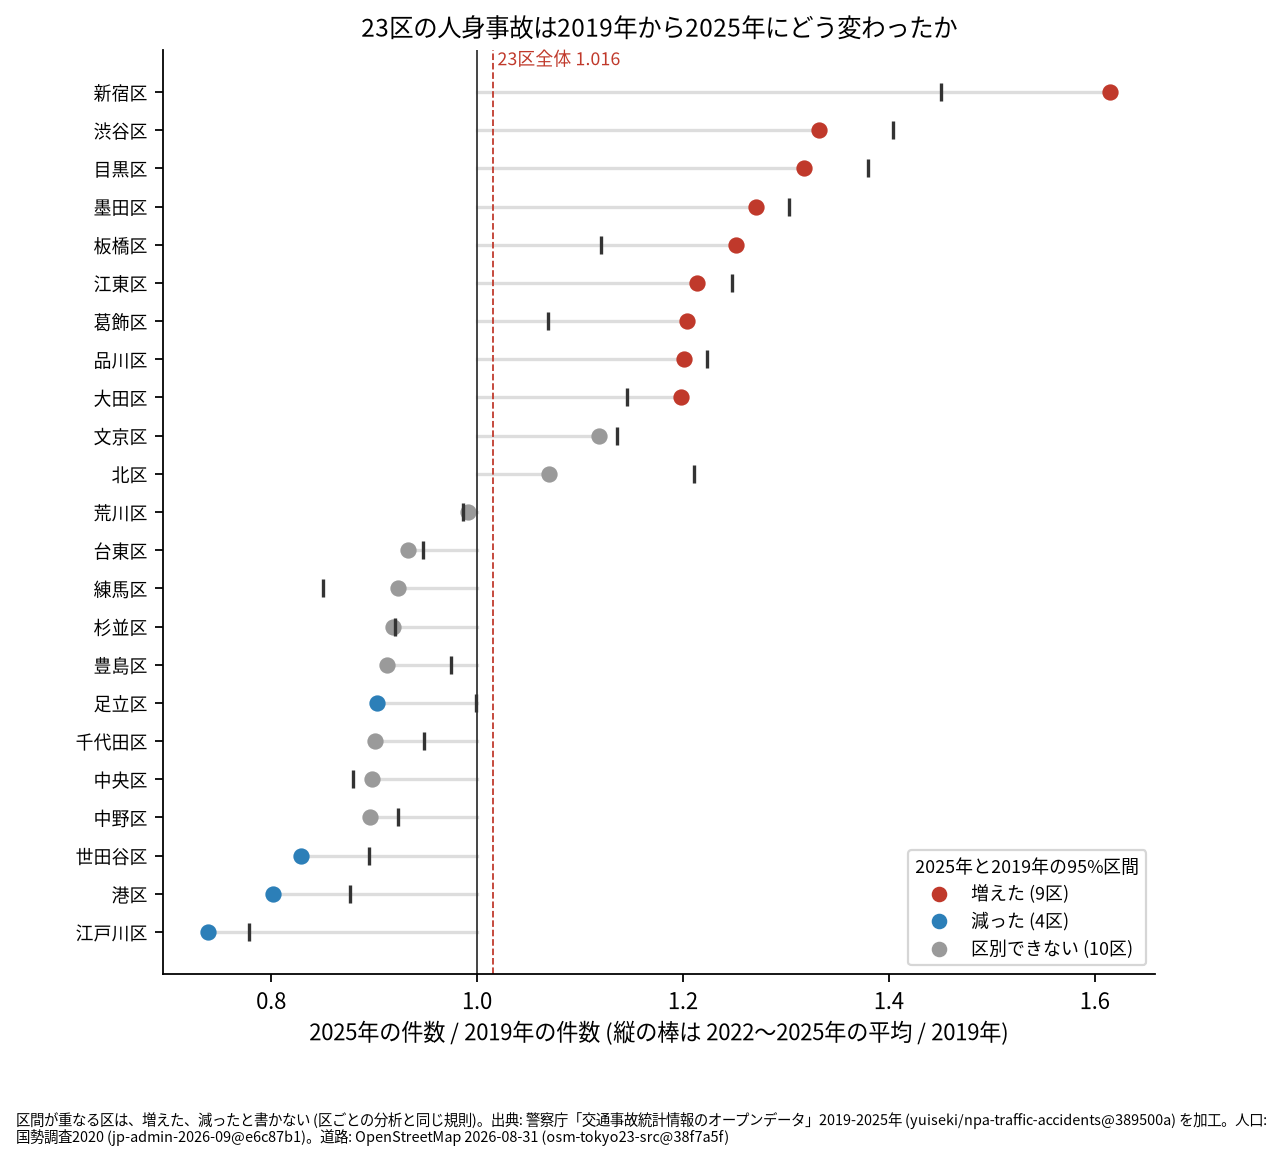
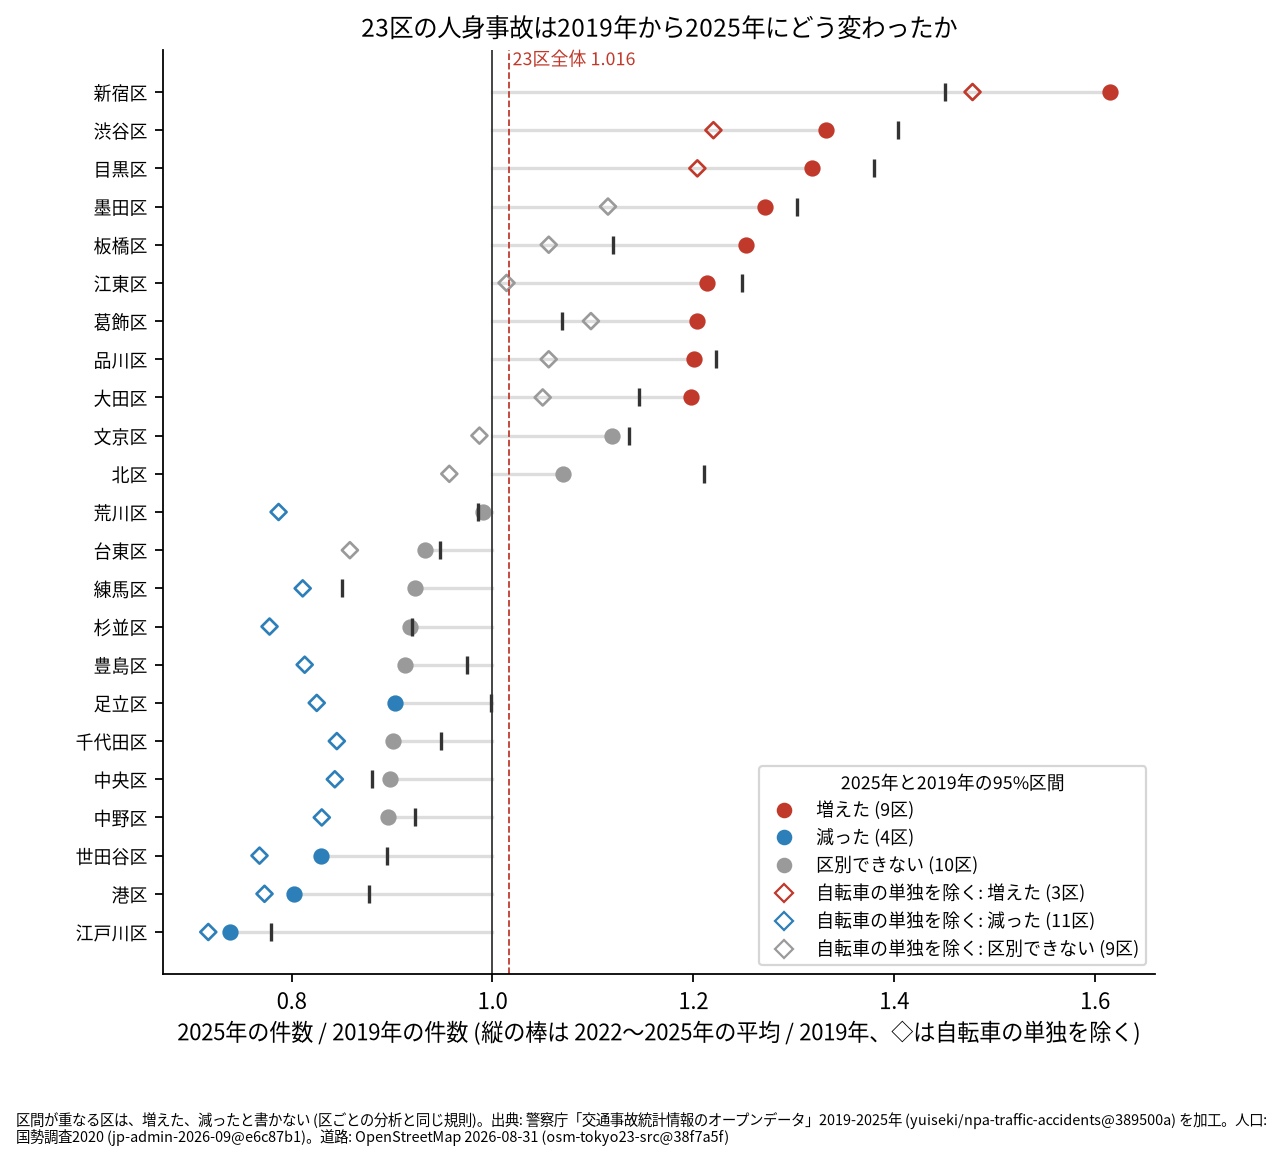
tokyo23-ward-comparison: read the trend without cyclist-alone accidents
They tripled in the 23 wards from 2019 to 2025, jumping in 2022. Without them the 23 wards fell (0.917) and
only Shinjuku, Shibuya and Meguro still rose; eleven wards fell.

Claude-Session: https://claude.ai/code/session_01NkWLXtsKgqQGFwWTBKgPox

diff --git a/projects/_traffic_accident/tokyo23-ward-comparison/scripts/plot.py b/projects/_traffic_accident/tokyo23-ward-comparison/scripts/plot.py
@@ -92,13 +92,19 @@ def fig_trend(wards):
         ax.plot([1, float(w["ratio_2025_2019"])], [i, i], color="#dddddd", zorder=1)
         ax.scatter([float(w["ratio_2025_2019"])], [i], color=color[w["trend_2025"]], s=40, zorder=2)
         ax.scatter([float(w["ratio_2022_2025_mean_2019"])], [i], marker="|", color="#333333", s=60, zorder=3)
+        # Without the cyclist-alone accidents (R008): a hollow diamond in the colour of its own class.
+        ax.scatter([float(w["ratio_2025_2019_without_bike_alone"])], [i], marker="D", s=26, facecolor="none",
+                   edgecolor=color[w["trend_2025_without_bike_alone"]], lw=1.2, zorder=2)
     ax.axvline(1, color="#333333", lw=0.8)
     ax.axvline(total, color="#c0392b", lw=0.8, ls="--")
     ax.text(total, len(order) - 0.3, f" 23区全体 {total:.3f}", color="#c0392b", fontsize=8)
     ax.set_yticks(range(len(order)), [w["name"] for w in order], fontsize=8)
-    ax.set_xlabel("2025年の件数 / 2019年の件数 (縦の棒は 2022〜2025年の平均 / 2019年)")
+    ax.set_xlabel("2025年の件数 / 2019年の件数 (縦の棒は 2022〜2025年の平均 / 2019年、◇は自転車の単独を除く)")
     handles = [plt.Line2D([], [], marker="o", ls="", color=c, label=f"{k} ({sum(w['trend_2025'] == k for w in wards)}区)")
                for k, c in color.items()]
+    handles += [plt.Line2D([], [], marker="D", ls="", markerfacecolor="none", markeredgecolor=c,
+                           label=f"自転車の単独を除く: {k} ({sum(w['trend_2025_without_bike_alone'] == k for w in wards)}区)")
+                for k, c in color.items()]
     ax.legend(handles=handles, loc="lower right", fontsize=8, title="2025年と2019年の95%区間", title_fontsize=8)
     for side in ("top", "right"):
         ax.spines[side].set_visible(False)
@@ -183,7 +189,7 @@ def main():
     use_cjk_font("".join(w["name"] for w in wards) + "".join(LABELS.values()) + SOURCE
                  + "0123456789.,%()/〜²年件人口千あたり道路面積順位括弧赤都心区群平均差標準偏差何倍数字構成色高低上横線分け方"
                  "唯一主成分第割合似近並結果見後足図記録縦棒全体増減区別できない間重書規則同じ量夜間昼交通分母大きく出"
-                 "地点町丁国勢調査小地域単位水面除少数集まいるかどれだけ変わ")
+                 "地点町丁国勢調査小地域単位水面除少数集まいるかどれだけ変わ単独◇")
     fig_rates(wards)
     fig_trend(wards)
     fig_heatmap(wards, z, features)

diff --git a/projects/_traffic_accident/tokyo23-ward-comparison/scripts/analyze.py b/projects/_traffic_accident/tokyo23-ward-comparison/scripts/analyze.py
@@ -131,6 +131,9 @@ def main():
         name, pop, area, lon, lat = wards_geo[code]
         by_year = Counter(r["file_year"] for r in ws)
         n0, n1 = by_year["2019"], by_year["2025"]
+        # The reading without cyclist-alone accidents, which tripled in the 23 wards from 2019 to 2025 (R008)
+        other = Counter(r["file_year"] for r in ws if not r["bike_single"])
+        m0, m1 = other["2019"], other["2025"]
         late = sum(by_year[y] for y in ("2022", "2023", "2024", "2025")) / 4
         xy = np.array([(x, y) for x, y in con.execute(
             "select x, y from p where ward = ?", [code]).fetchall()])  # the order of acc, as the ward projects
@@ -147,6 +150,8 @@ def main():
             "died_per_100k_residents_per_year": round(1e5 * died / 7 / pop, 3),
             "n_2019": n0, "n_2025": n1, "ratio_2025_2019": round(n1 / n0, 3),
             "ratio_2022_2025_mean_2019": round(late / n0, 3), "trend_2025": trend_class(n0, n1),
+            "ratio_2025_2019_without_bike_alone": round(m1 / m0, 3),
+            "trend_2025_without_bike_alone": trend_class(m0, m1),
             **{f"share_{k}": round(sum(r[k] for r in ws) / n, 4) for k in
                ("ped", "bike", "old_ped", "young_pb", "strict", "night", "intersection", "bike_single",
                 "business_car_A", "truck_A", "weekend", "expressway", "escooter")},
@@ -186,6 +191,14 @@ def main():
         "spearman_of_rates": {f"{a} vs {b}": spearman(a, b) for i, a in enumerate(rates) for b in rates[i + 1:]},
         "rank_of_rates": {k: ranks(k) for k in rates},
         "trend_classes": dict(Counter(w["trend_2025"] for w in wards)),
+        "trend_classes_without_bike_alone": dict(Counter(w["trend_2025_without_bike_alone"] for w in wards)),
+        "bike_alone_by_year_23_wards": {y: sum(1 for r in rows if r["file_year"] == y and r["bike_single"]) for y in YEARS},
+        "ratio_23_wards_without_bike_alone": round(
+            sum(1 for r in rows if r["file_year"] == "2025" and not r["bike_single"])
+            / sum(1 for r in rows if r["file_year"] == "2019" and not r["bike_single"]), 3),
+        "trend_23_wards_without_bike_alone": trend_class(
+            sum(1 for r in rows if r["file_year"] == "2019" and not r["bike_single"]),
+            sum(1 for r in rows if r["file_year"] == "2025" and not r["bike_single"])),
         "coded_vs_inside": {w["code"]: [w["accidents"], w["accidents_inside_polygon"]] for w in wards},
         "z_abs_1_or_more": {w["name"]: [k for k in FEATURES if abs(zs[k][i]) >= 1] for i, w in enumerate(wards)},
     }

diff --git a/projects/_traffic_accident/tokyo23-ward-comparison/report.md b/projects/_traffic_accident/tokyo23-ward-comparison/report.md
@@ -11,7 +11,7 @@
 | # | 要点 | 数字 | 図 |
 |---:|---|---|---|
 | 1 | 量の上位は、どの分母でも都心の 3 区 (千代田、中央、港)。下位は練馬区。中位の順位は分母で入れ替わる | 人口千人あたりは千代田区 9.067 件/年が 1 位、練馬区 1.406 件が 23 位。道路 1 km あたりは中央区 2.715 件、港区 2.593 件、千代田区 2.575 件が上位 3 つ、練馬区 0.922 件が 23 位。3 つの分母の順位の Spearman は 0.651〜0.826 ([wards.csv](outputs/wards.csv)、[analysis.json](outputs/analysis.json)) | [図 1](#図-1-量) |
-| 2 | 23 区全体の件数は 2019 年と区別できないが、区ごとには増えた区と減った区に分かれる | 23 区全体は 2025 年 / 2019 年 1.016。増えた 9 区 (新宿区 1.615 が最大)、減った 4 区 (江戸川区 0.739、港区 0.802、世田谷区 0.829、足立区 0.903)、区別できない 10 区 ([wards.csv](outputs/wards.csv)、[analysis.json](outputs/analysis.json)) | [図 2](#図-2-推移)、[地図 2](#地図-2-推移) |
+| 2 | 23 区全体の件数は 2019 年と区別できないが、自転車の単独の事故を除くと減った。除いても増えたのは新宿、渋谷、目黒の 3 区だけ | 23 区全体は 2025 年 / 2019 年 1.016。自転車 (A) と相手なし・物件 (B) の事故は 1,035 件から 3,039 件に増え、除くと 0.917 で減った。区ごとには、全ての事故で増えた 9 区、減った 4 区、区別できない 10 区。除くと増えた 3 区 (新宿区 1.478、渋谷区 1.22、目黒区 1.204)、減った 11 区、区別できない 9 区。自転車の単独の事故の増え方が記録のされ方の変化かは確かめていない ([wards.csv](outputs/wards.csv)、[analysis.json](outputs/analysis.json)) | [図 2](#図-2-推移)、[地図 2](#地図-2-推移) |
 | 3 | 構成で安定して分かれる型は 2 つだけ。都心の 5 区 (千代田、中央、港、新宿、渋谷) と、残りの 18 区 | k = 2 の安定性 ARI は k-means 1.000、Ward 法 0.995、2 つの手法の ARI 1.000。k = 3〜6 は規則 (0.6) に届かない。5 区は事業用の乗用車が当事者 A の事故が 27.5% (18 区 10.1%)、自転車が 33.0% (49.0%)、生活道路が 16.0% (28.9%)、夜が 37.2% (29.1%) ([clusters.json](outputs/clusters.json)) | [図 3](#図-3-構成)、[地図 1](#地図-1-自転車) |
 | 4 | 18 区の中の違いは、型ではなく連続した 2 つの向きで読む。貨物車と交差点の多い区 (板橋、墨田、江東、練馬) と、土日と生活道路の多い区 (中野、目黒、世田谷、杉並、葛飾) | 12 の割合の第 1 主成分 (57%) は事業用の乗用車と夜 対 自転車と若い人、第 2 主成分 (12%) は貨物車がAと交差点 対 土日と生活道路。主成分は結果を見た後に足した読み ([pca.json](outputs/pca.json)、[clusters.json](outputs/clusters.json)) | [図 4](#図-4-似た区) |
 | 5 | 事故が少数の場所に集まる度合いは、区で 3 倍違う | 30 m の地点の上位 15 に入る割合は文京区 10.5% から足立区 3.2%。件数の上位 10% の町丁に入る割合は新宿区 37.5% から練馬区 22.5% ([wards.csv](outputs/wards.csv)) | [図 5](#図-5-場所の集まり方) |
@@ -20,7 +20,7 @@
 
 | 読み手 | 結論 | 検討する材料 | 詳しく |
 |---|---|---|---|
-| 都の交通安全担当 | 都心の 5 区は、事業用の車、夜、歩行者の事故の区。残りの 18 区は、自転車、生活道路、若い人の事故の区。施策を同じ型の区どうしで比べる | 増えた 9 区と減った 4 区の、2021〜2022 年の変わり方 | [図 2](#図-2-推移)、[図 3](#図-3-構成) |
+| 都の交通安全担当 | 都心の 5 区は、事業用の車、夜、歩行者の事故の区。残りの 18 区は、自転車、生活道路、若い人の事故の区。施策を同じ型の区どうしで比べる | 自転車の単独の事故が 2021 年から 2022 年に跳ねた理由 (記録の変化か)。除いても増えた新宿、渋谷、目黒の 3 区 | [図 2](#図-2-推移)、[図 3](#図-3-構成) |
 | 区の交通安全担当 | 自分の区が 23 区の平均から 1 標準偏差以上外れる点を下の表で見る。似た区は図 4 で近くに並ぶ区 | 似た区の区ごとの報告と、その区の施策 | [区ごとの特徴](#区ごとの特徴) |
 | 研究者 | 分母で順位が変わり、型は 2 つしか安定しない。量の順位も型も 1 つの読み方で断定しない | 昼の人口と交通量の分母、区の境界の近くの事故 | [読み方で変わる答え](#読み方で変わる答え) |
 
@@ -38,7 +38,7 @@
 
 ![2025 年 / 2019 年の件数の比の地図](outputs/map-trend.png)
 
-増えた 9 区のうち、新宿区 (1.615)、渋谷区 (1.332)、目黒区 (1.318) が上位 3 つ。減った 4 区のうち、江戸川区 (0.739) と港区 (0.802) が大きく減った。23 区全体の件数は 2019 年 21,098 件、2020 年 17,662 件、2025 年 21,437 件で、2020 年に減った後に戻った ([wards.csv](outputs/wards.csv)、[analysis.json](outputs/analysis.json))。理由は数えていない。
+増えた 9 区のうち、新宿区 (1.615)、渋谷区 (1.332)、目黒区 (1.318) が上位 3 つ。自転車 (A) と相手なし・物件 (B) の事故は、23 区で 2019 年 1,035 件、2021 年 1,626 件、2022 年 2,817 件、2025 年 3,039 件と、2021 年から 2022 年に跳ねた。この事故を除くと (図の◇)、増えたのは新宿区、渋谷区、目黒区の 3 区だけで、墨田区、板橋区、江東区、葛飾区、品川区、大田区は区別できない側に移り、荒川区、練馬区、杉並区、豊島区、千代田区、中央区、中野区は減った側に移る ([wards.csv](outputs/wards.csv)、[analysis.json](outputs/analysis.json))。減った 4 区のうち、江戸川区 (0.739) と港区 (0.802) が大きく減った。23 区全体の件数は 2019 年 21,098 件、2020 年 17,662 件、2025 年 21,437 件で、2020 年に減った後に戻った ([wards.csv](outputs/wards.csv)、[analysis.json](outputs/analysis.json))。理由は数えていない。
 
 ### 図 3: 構成
 
@@ -100,6 +100,7 @@
 | 区の事故 | 本票の `市区町村コード` | 点が区の面に入る事故。どの区も件数の差は 3% 未満 ([analysis.json](outputs/analysis.json)) |
 | 区の型 | k-means と Ward 法で安定する群 | DPMM は共分散の尺度 10 で 2 群、0.3〜3 で 10 群。2 群の他に落ち着く範囲は無い ([clusters-dpmm.txt](outputs/clusters-dpmm.txt)) |
 | 推移 | 2025 年 / 2019 年 | 2022〜2025 年の平均 / 2019 年 ([wards.csv](outputs/wards.csv)) |
+| 推移の事故 (R008 で足した読み) | 全ての人身事故 | 自転車の単独を除くと、増えた区は 9 から 3 に、減った区は 4 から 11 になる ([analysis.json](outputs/analysis.json)) |
 
 ## データ
 
@@ -120,5 +121,5 @@
 
 - 昼の人口、交通量、観光客の数は無い。都心の区の人口あたりの量は、住んでいない人の事故を含むので大きく出る。
 - 23 区は 23 の単位しかない。群、順位、標準化した差は、1 年分の件数の揺れで動きうる。
-- 推移の理由 (2020 年の減少と 2022 年の増加、区ごとの違い) は数えていない。コードの付け方の変化かどうかは、区の面で数えた件数と比べただけ。
+- 推移の理由 (2020 年の減少と 2022 年の増加、区ごとの違い) は数えていない。コードの付け方の変化かどうかは、区の面で数えた件数と比べただけ。自転車の単独の事故が 2022 年に跳ねた理由 (記録の基準の変化か、実際の増加か) は、このデータでは分けられない。
 - 上位 15 地点の割合は区の件数に依る。上位 10% の町丁の割合は町丁の数 (52〜277) に依る。

diff --git a/projects/_traffic_accident/tokyo23-ward-comparison/EXPERIMENT_TRACKER.md b/projects/_traffic_accident/tokyo23-ward-comparison/EXPERIMENT_TRACKER.md
@@ -9,3 +9,4 @@
 | R005 | C3、C6 | exploratory | done | outputs/pca.json, outputs/composition-pca.png | 群が 2 つしか安定しなかったので、結果を見た後に、12 の割合の主成分を足した。区の違いの向きを言葉にするため。群の名前や順位の判断には使わない | 第 1 主成分 57%、第 2 主成分 12% |
 | R006 | C6 | exploratory | done | outputs/profiles.csv | - | 区ごとに、標準化した差が 1 以上と -1 以下の特徴、3 つの分母の順位、推移を並べた |
 | R007 | - | - | done | outputs/rates.png, outputs/trend.png, outputs/composition.png, outputs/composition-pca.png, outputs/concentration.png, outputs/map-bike.png, outputs/map-trend.png | 1 回目の主成分の図は、図の JSON の名前 (pca.json) が主成分の結果を上書きした。図の名前を composition-pca に替えた。散布図の区の名前の重なりを `text_overlaps` で数え、4 つの名前を動かして 0 件にした | 地図 2 枚は classify_map.py。text_overlaps は全て 0 件 |
+| R008 | C2 | exploratory | done | outputs/wards.csv, outputs/analysis.json, outputs/trend.png | 板橋区の報告で、自転車 (A) と相手なし・物件 (B) の事故が 23 区で 2021 年から 2022 年に跳ねたと分かったので、結果を見た後に、この事故を除いた推移を並べる読み方として足した | 23 区は 1,035 件 (2019 年) から 3,039 件 (2025 年)。除くと 23 区全体は 0.917 で減った。増えた 3 区、減った 11 区、区別できない 9 区 |
